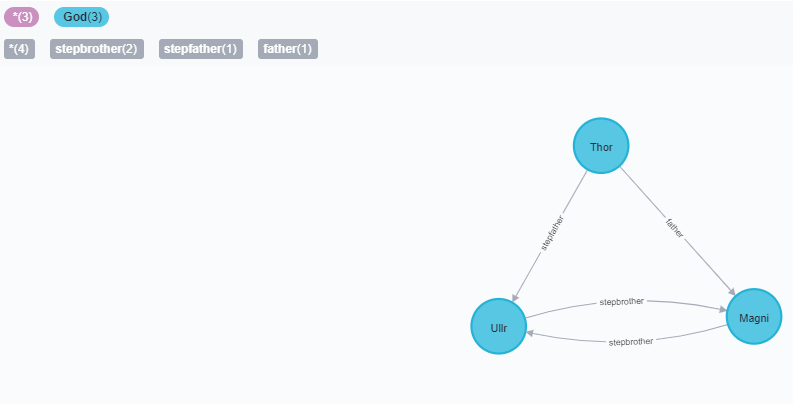
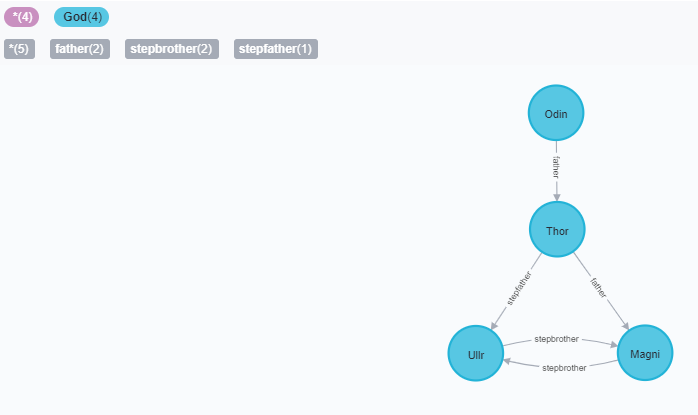
Updated Jakarta examples

diff --git a/jakarta/graph-neo4j-standalone/README.md b/jakarta/graph-neo4j-standalone/README.md
@@ -6,9 +6,7 @@ A JNoSQL Artemis project with Java SE using using Graph API with Neo4J.
 
 Neo4j is a graph database management system developed by  Neo4j, Inc. Described by its developers as an ACID-compliant transactional database with native graph storage and processing, Neo4j is the most popular graph database according to db-engines.com. Neo4j is available in a GPL3-licensed open-source "community edition", with online backup and high availability extensions licensed under the terms of the Affero General Public License. Neo also licenses Neo4j with these extensions under closed-source commercial terms. Neo4j is implemented in Java and accessible from software written in other languages using the Cypher Query Language through a transactional HTTP endpoint, or through the binary 'bolt' protocol.
 
-
 To run this project a Neo4j instance is required, so you can use either a local installation or use Docker.
-
 
 ## Manual installation
 
@@ -38,3 +36,9 @@ Given cities and travelers, this TravelApp will return the most famous city, the
  friends suggestion placed by the visited cities.
 
 ![Travel](Travel.png)
+
+### Gods of Asgard
+
+This application shows the powers and relationships between gods of [Asgard](https://en.wikipedia.org/wiki/Asgard).
+
+![Gods](Gods.png)

diff --git a/jakarta/graph-neo4j/README.md b/jakarta/graph-neo4j/README.md
@@ -9,8 +9,6 @@ Neo4j is a graph database management system developed by  Neo4j, Inc. Described 
 
 ## Run the code
 
-### Gods
-
 ### HR Solution
 
 The HR solution that allows to match some rules based on the relationship between four people.
@@ -19,7 +17,13 @@ The HR solution that allows to match some rules based on the relationship betwee
 
 ### TravelApp
 
-Given cities and travelers, this TravelApp will return the most famous city, the person who most travel and also some
+Given cities and travelers, this travel application will return the most famous city, the person who most travel and also some
  friends suggestion placed by the visited cities.
 
 ![Travel](Travel.png)
+
+### Gods of Asgard
+
+This application shows the powers and relationships between gods of [Asgard](https://en.wikipedia.org/wiki/Asgard).
+
+![Gods](Gods.png)
